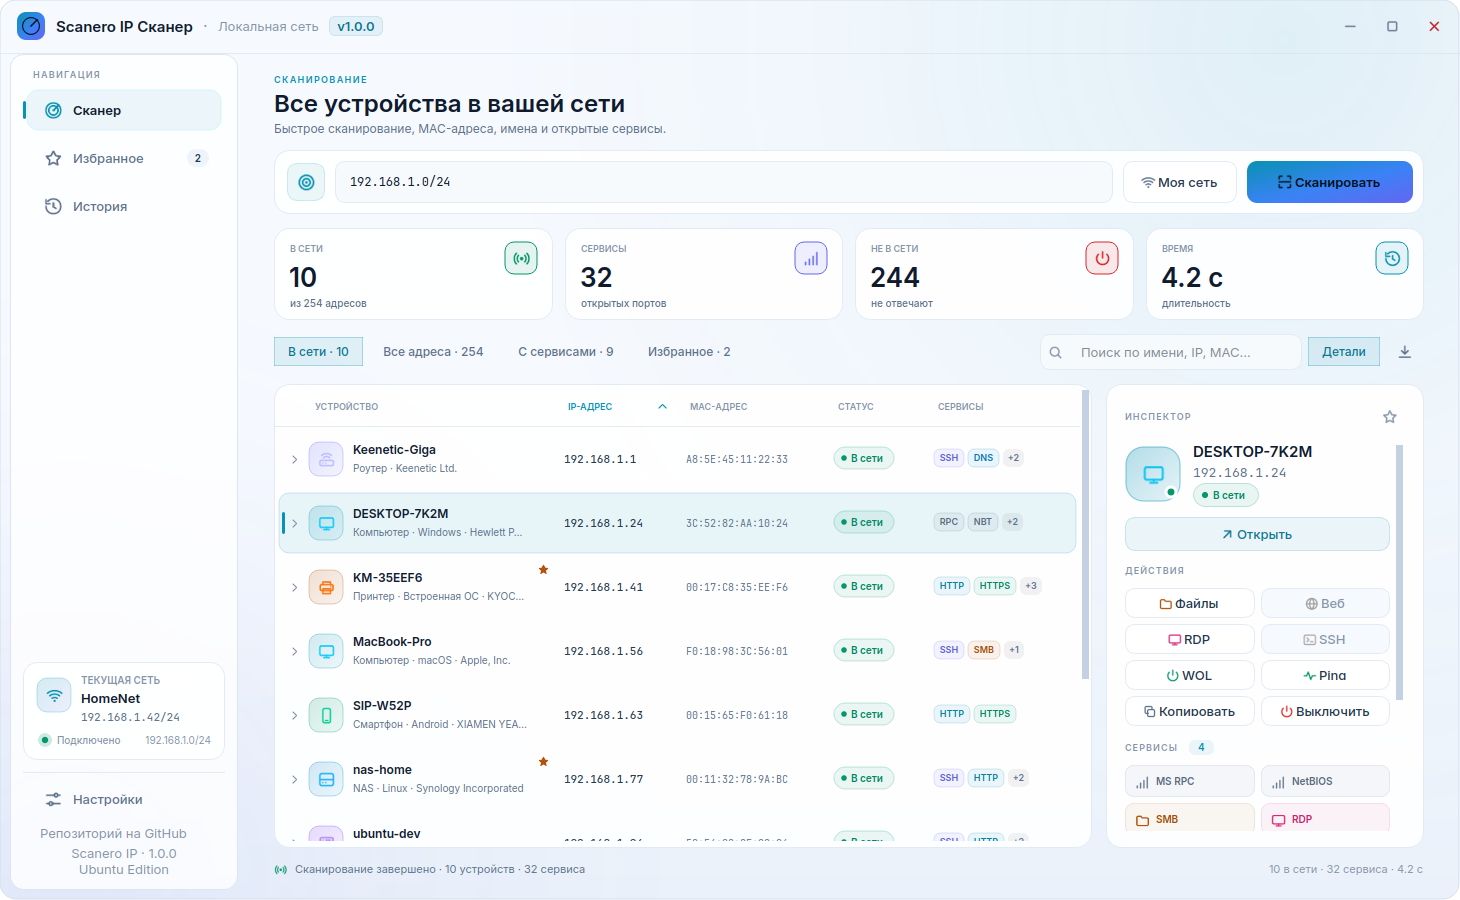
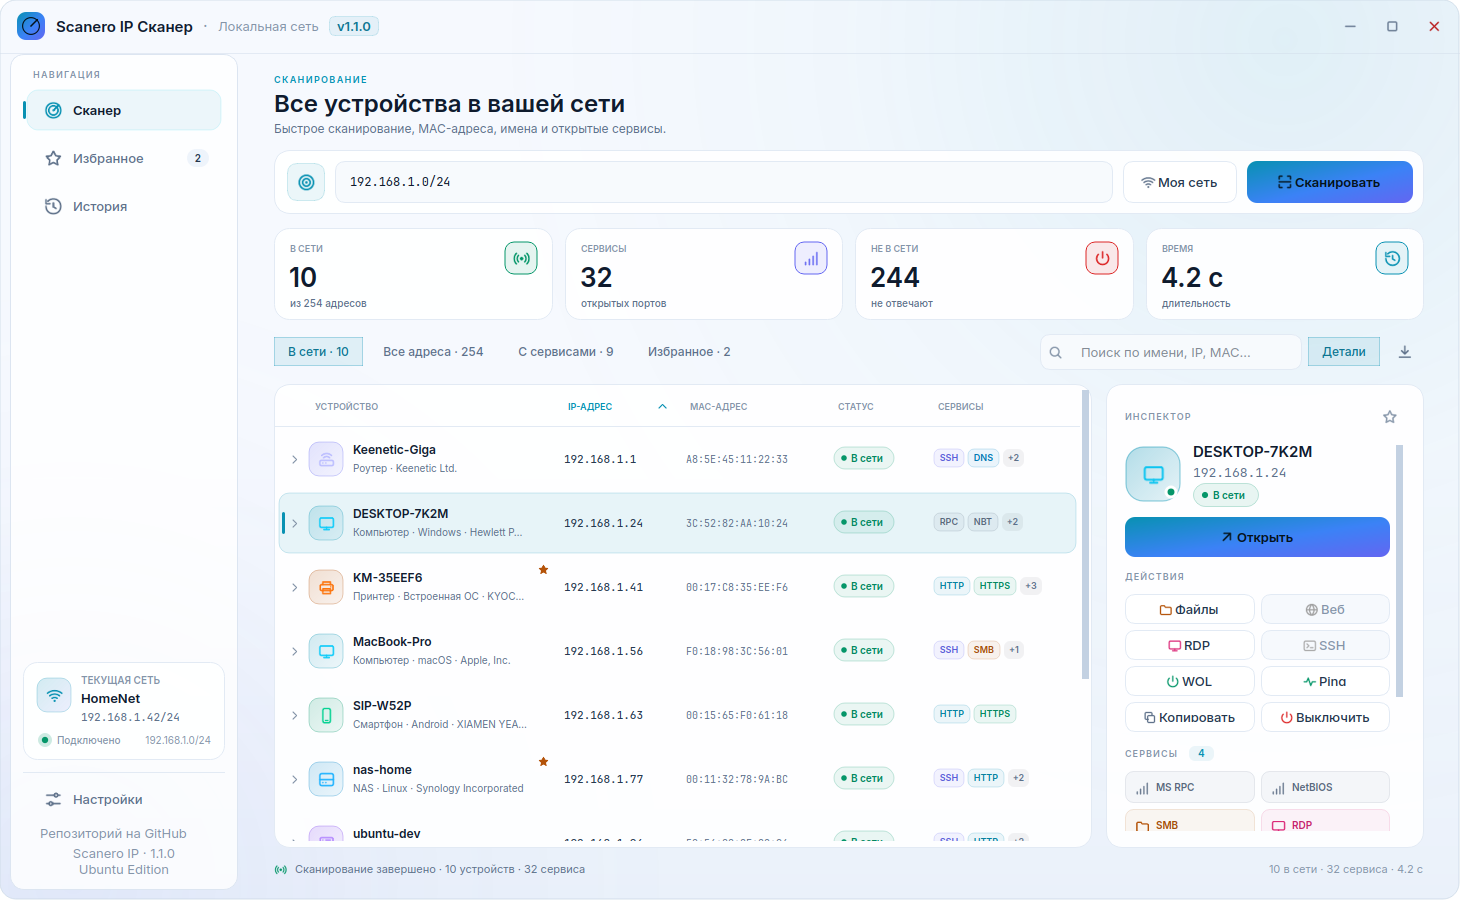
Release 1.1.0: faster focused opening and UI fixes
- Bump version to 1.1.0 and centralize it across UI/CLI
- Make inspector Open button primary and single-click responsive
- Run window focus asynchronously; no more UI freeze
- Raise/focus SSH, Telnet, ping and other external windows
- Fix About dialog text clipping
- Document changelog

Changed region(s): [[0.7705, 0.56, 0.9555, 0.9333], [0.863, 0.84, 0.9247, 0.9333], [0.0616, 0.9333, 0.1233, 0.9644]]

diff --git a/scanero/core/actions.py b/scanero/core/actions.py
@@ -6,9 +6,11 @@ import shutil
 import socket
 import struct
 import subprocess
+import threading
+import time
 from typing import Callable
 
-from PyQt6.QtCore import QProcess, QTimer, QUrl
+from PyQt6.QtCore import QProcess, QUrl
 from PyQt6.QtGui import QDesktopServices, QGuiApplication
 
 from .models import Device, Service, FILE_KINDS, TERMINAL_KINDS, WEB_KINDS
@@ -63,41 +65,47 @@ def _terminal_command(command: str) -> list[str]:
 # Bringing newly opened windows to the foreground
 # ---------------------------------------------------------------------------
 
-def _x11_windows() -> set[str]:
-    if QGuiApplication.platformName() != "xcb" or not shutil.which("xdotool"):
+def _x11_windows_raw() -> set[str]:
+    if not shutil.which("xdotool"):
         return set()
     try:
         proc = subprocess.run(
             ["xdotool", "search", "--onlyvisible", "--name", ".*"],
-            capture_output=True, text=True, timeout=2,
+            capture_output=True, text=True, timeout=1.5,
         )
         return {token for token in proc.stdout.split() if token.isdigit()}
     except Exception:
         return set()
 
 
+def _x11_windows() -> set[str]:
+    if QGuiApplication.platformName() != "xcb":
+        return set()
+    return _x11_windows_raw()
+
+
 def _activate_window(window_id: str) -> None:
     for cmd in (
         ["xdotool", "windowmap", window_id],
-        ["xdotool", "windowactivate", "--sync", window_id],
+        ["xdotool", "windowactivate", window_id],
         ["xdotool", "windowraise", window_id],
     ):
         try:
-            subprocess.run(cmd, capture_output=True, timeout=2)
+            subprocess.run(cmd, capture_output=True, timeout=1.5)
         except Exception:
             pass
 
 
-def _matching_windows(hints: tuple[str, ...]) -> list[str]:
-    found: set[str] = set()
-    if QGuiApplication.platformName() != "xcb" or not shutil.which("xdotool"):
+def _matching_windows_raw(hints: tuple[str, ...]) -> list[str]:
+    if not shutil.which("xdotool"):
         return []
+    found: set[str] = set()
     for hint in hints:
         for flag in ("--class", "--name"):
             try:
                 proc = subprocess.run(
                     ["xdotool", "search", flag, hint],
-                    capture_output=True, text=True, timeout=2,
+                    capture_output=True, text=True, timeout=1.5,
                 )
                 found.update(token for token in proc.stdout.split() if token.isdigit())
             except Exception:
@@ -106,19 +114,23 @@ def _matching_windows(hints: tuple[str, ...]) -> list[str]:
 
 
 def _focus_after(before: set[str], hints: tuple[str, ...] = ()) -> None:
-    if QGuiApplication.platformName() != "xcb":
+    """Raise/focus newly opened windows without blocking the UI thread."""
+    if QGuiApplication.platformName() != "xcb" or not shutil.which("xdotool"):
         return
 
-    def activate() -> None:
-        after = _x11_windows()
-        new = sorted(after - before, key=int)
-        targets = new[-2:] if new else _matching_windows(hints)[-2:]
-        for window_id in reversed(targets):
-            _activate_window(window_id)
+    def worker() -> None:
+        last = 0.0
+        # Several attempts handle slow starters such as Chrome/Remmina.
+        for delay in (0.8, 2.0, 3.4):
+            time.sleep(max(0.0, delay - last))
+            last = delay
+            after = _x11_windows_raw()
+            new = sorted(after - before, key=int)
+            targets = new[-2:] if new else _matching_windows_raw(hints)[-2:]
+            for window_id in reversed(targets):
+                _activate_window(window_id)
 
-    QTimer.singleShot(650, activate)
-    QTimer.singleShot(1600, activate)
-    QTimer.singleShot(3000, activate)
+    threading.Thread(target=worker, name="scanero-window-focus", daemon=True).start()
 
 
 def _scheme_hints(scheme: str) -> tuple[str, ...]:

diff --git a/scanero/ui/pages.py b/scanero/ui/pages.py
@@ -22,6 +22,7 @@ from PyQt6.QtWidgets import (
     QWidget,
 )
 
+from .. import __version__
 from ..core.models import Device, Favorite, Service, kind_label
 from ..core.netinfo import Interface, describe_targets, list_interfaces, parse_targets
 from ..core.storage import HistoryEntry, Settings
@@ -249,11 +250,13 @@ class InspectorPanel(QFrame):
         self.dv.addLayout(top)
 
         self.open_btn = QPushButton("Открыть")
-        self.open_btn.setProperty("variant", "soft")
+        self.open_btn.setProperty("variant", "primary")
         self.open_btn.setCursor(Qt.CursorShape.PointingHandCursor)
-        self.open_btn.setIcon(icon("arrow-up-right", P.accent_soft, 16))
-        self.open_btn.setIconSize(QSize(16, 16))
-        self.open_btn.setFixedHeight(34)
+        self.open_btn.setIcon(icon("arrow-up-right", P.primary_text, 17))
+        self.open_btn.setIconSize(QSize(17, 17))
+        self.open_btn.setFixedHeight(40)
+        self.open_btn.setAutoDefault(False)
+        self.open_btn.setFocusPolicy(Qt.FocusPolicy.NoFocus)
         self.open_btn.clicked.connect(lambda: self._emit_action("open_primary"))
         self.dv.addWidget(self.open_btn)
 
@@ -338,7 +341,7 @@ class InspectorPanel(QFrame):
             "star-fill" if self._favorite else "star",
             P.amber if self._favorite else P.dim, 17,
         ))
-        self.open_btn.setIcon(icon("arrow-up-right", P.accent_soft, 16))
+        self.open_btn.setIcon(icon("arrow-up-right", P.primary_text, 17))
         self.net_card.setStyleSheet(
             f"QFrame#NetCard {{ background:{P.input_bg}; border:1px solid {P.border_soft}; border-radius:12px; }}"
         )
@@ -1466,7 +1469,7 @@ class SettingsPage(QWidget):
         ar = QHBoxLayout(about_row)
         ar.setContentsMargins(0, 0, 0, 0)
         ar.setSpacing(10)
-        ver = QLabel("Версия 1.0.0")
+        ver = QLabel(f"Версия {__version__}")
         ver.setStyleSheet(f"color:{P.muted}; font-size:11.5px;")
         ar.addWidget(ver)
         ar.addStretch(1)

diff --git a/scanero/cli.py b/scanero/cli.py
@@ -9,6 +9,7 @@ from .core.exporter import export
 from .core.models import STATUS_ONLINE
 from .core.netinfo import best_interface, list_interfaces, parse_targets, _plural
 from .core.scanner import DEFAULT_PORTS, ScanOptions, scan_network
+from . import __version__
 from .core.storage import Settings
 
 
@@ -26,7 +27,7 @@ def main(argv: list[str] | None = None) -> int:
     parser.add_argument("--csv", metavar="FILE", help="сохранить отчёт CSV")
     parser.add_argument("--html", metavar="FILE", help="сохранить отчёт HTML")
     parser.add_argument("--all", action="store_true", help="показать и выключенные адреса")
-    parser.add_argument("--version", action="version", version="Scanero IP scanner 1.0.0")
+    parser.add_argument("--version", action="version", version=f"Scanero IP scanner {__version__}")
     args = parser.parse_args(argv)
 
     ifaces = list_interfaces()

diff --git a/scanero/ui/dialogs.py b/scanero/ui/dialogs.py
@@ -160,7 +160,7 @@ class AboutDialog(QDialog):
         super().__init__(parent)
         self.setWindowTitle("О программе")
         self.setModal(True)
-        self.setFixedWidth(440)
+        self.setFixedWidth(510)
         self.setStyleSheet(f"QDialog {{ background: {P.dialog_bg}; }}")
         layout = QVBoxLayout(self)
         layout.setContentsMargins(26, 24, 26, 22)
@@ -187,7 +187,8 @@ class AboutDialog(QDialog):
         )
         text.setWordWrap(True)
         text.setAlignment(Qt.AlignmentFlag.AlignTop | Qt.AlignmentFlag.AlignLeft)
-        text.setMinimumHeight(96)
+        text.setTextInteractionFlags(Qt.TextInteractionFlag.TextSelectableByMouse)
+        text.setMinimumHeight(130)
         text.setStyleSheet(f"color:{P.text_soft}; font-size:12px;")
         layout.addWidget(text)
         made = QLabel("Сделано с вниманием к деталям · PyQt6 / Ubuntu")

diff --git a/scanero/__init__.py b/scanero/__init__.py
@@ -1,6 +1,6 @@
 """Scanero IP scanner — a modern local network scanner for Ubuntu."""
 
-__version__ = "1.0.0"
+__version__ = "1.1.0"
 __app_name__ = "Scanero IP scanner"
 __app_name_ru__ = "Scanero IP Сканер"
 __brand__ = "Scanero"

diff --git a/README.md b/README.md
@@ -3,7 +3,7 @@
 **Scanero IP Сканер** — современный сканер локальной сети для Ubuntu: быстрый, красивый и без установки.
 По возможностям повторяет Advanced IP Scanner, но нативно работает в Linux и не требует root.
 
-Репозиторий: <https://github.com/kostya4000/Scanero-IP-scanner>
+**Версия 1.1.0** · Репозиторий: <https://github.com/kostya4000/Scanero-IP-scanner>
 
 ![Scanero IP scanner](docs/screenshot.png)
 
@@ -21,7 +21,10 @@
 - **Определение ОС и типа**: Windows, Linux, macOS, принтеры, роутеры, NAS, камеры, телефоны.
 - **Открытые сервисы**: HTTP, HTTPS, SMB, SSH, RDP, FTP, IPP/LPD, VNC и другие порты.
   Для HTTP/HTTPS подтягиваются `Server` и `<title>`, для SSH/FTP — баннеры.
-- **Ресурсы**: открытие общих папок, FTP, веб-интерфейсов и RDP в один клик.
+- **Ресурсы и одно нажатие**: заметная кнопка «Открыть» в инспекторе,
+  открытие общих папок, FTP, веб-интерфейсов и RDP одним кликом.
+- **Фокус внешних окон**: браузер, файловый менеджер, RDP и терминал
+  автоматически поднимаются и получают фокус без зависания интерфейса.
 - **Wake-on-LAN** по MAC-адресу.
 - **Удалённое выключение/перезагрузка** Windows-компьютеров через Samba `net rpc shutdown`.
 - **Ping, traceroute, SSH, Telnet** — запуск в терминале.

diff --git a/CHANGELOG.md b/CHANGELOG.md
@@ -1,0 +1,20 @@
+# Changelog
+
+## 1.1.0 — 2026-11-19
+
+- Added light, dark and system themes with live switching in Settings → Appearance.
+- GitHub links in the sidebar, Settings → About and the About dialog.
+- Better device names: mDNS browse, SSDP/UPnP, TLS certificate names and SNMP sysName.
+- Fixed inspector not switching when another device is selected.
+- Made the inspector **Open** button primary and responsive to a single click.
+- External windows (browser, file manager, RDP, terminal) are raised and focused.
+- Window focus work runs asynchronously, so the application no longer freezes.
+- Fixed the About dialog clipping its description.
+- Improved router/printer classification; version is now centralized.
+
+## 1.0.0 — 2026-11-19
+
+- Initial release: Scanero IP scanner / Scanero IP Сканер.
+- Multi-threaded network discovery, MAC/vendor lookup, NetBIOS/DNS/mDNS,
+  service scanning, SSH/RDP/SMB/HTTP actions, Wake-on-LAN, remote shutdown,
+  favorites, history and CSV/JSON/HTML export.
